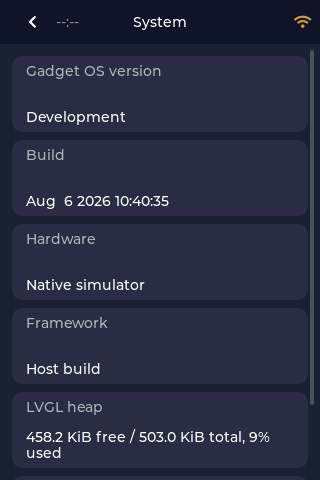
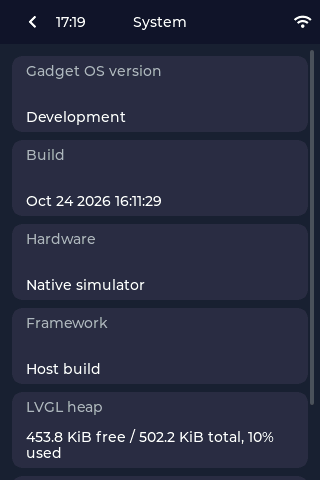
update images

diff --git a/USER_GUIDE.md b/USER_GUIDE.md
@@ -208,12 +208,14 @@ Install the native prerequisites described in the [README](README.md), then run 
 The script:
 
 1. Builds the `native` PlatformIO environment.
-2. Opens each documented route with data from `documents/user-guide-fixture`.
+2. Opens every app's main screen (including Lab apps), the home screen, and the documented settings screens using a temporary copy of `documents/user-guide-fixture` and offline demo providers.
 3. Captures the exact 320×480 framebuffer as a temporary PPM file.
 4. Converts it to PNG using the included Node.js converter.
 5. Replaces the images under `documents/user-guide/screenshots`.
 
-Requirements for screenshot generation are PlatformIO, SDL2, Node.js, and a graphical session in which the SDL simulator can start. Update the route list in `scripts/update-user-guide-screenshots.sh` when adding another documented screen.
+The app images are `weather.png`, `planes.png`, `transit.png`, `stocks.png`, `calculator.png`, `settings.png`, `dice-score.png`, and `weather-icons.png`. Transit departures are generated relative to capture time so they remain visible on subsequent runs. These are illustrative data, not live travel or market information. The checked-in fixture settings are left unchanged.
+
+Requirements for screenshot generation are PlatformIO, SDL2, Node.js, Python 3, and a graphical session in which the SDL simulator can start. Update the route list in `scripts/update-user-guide-screenshots.sh` when adding another documented screen.
 
 ## Updating the instructional movie
 
